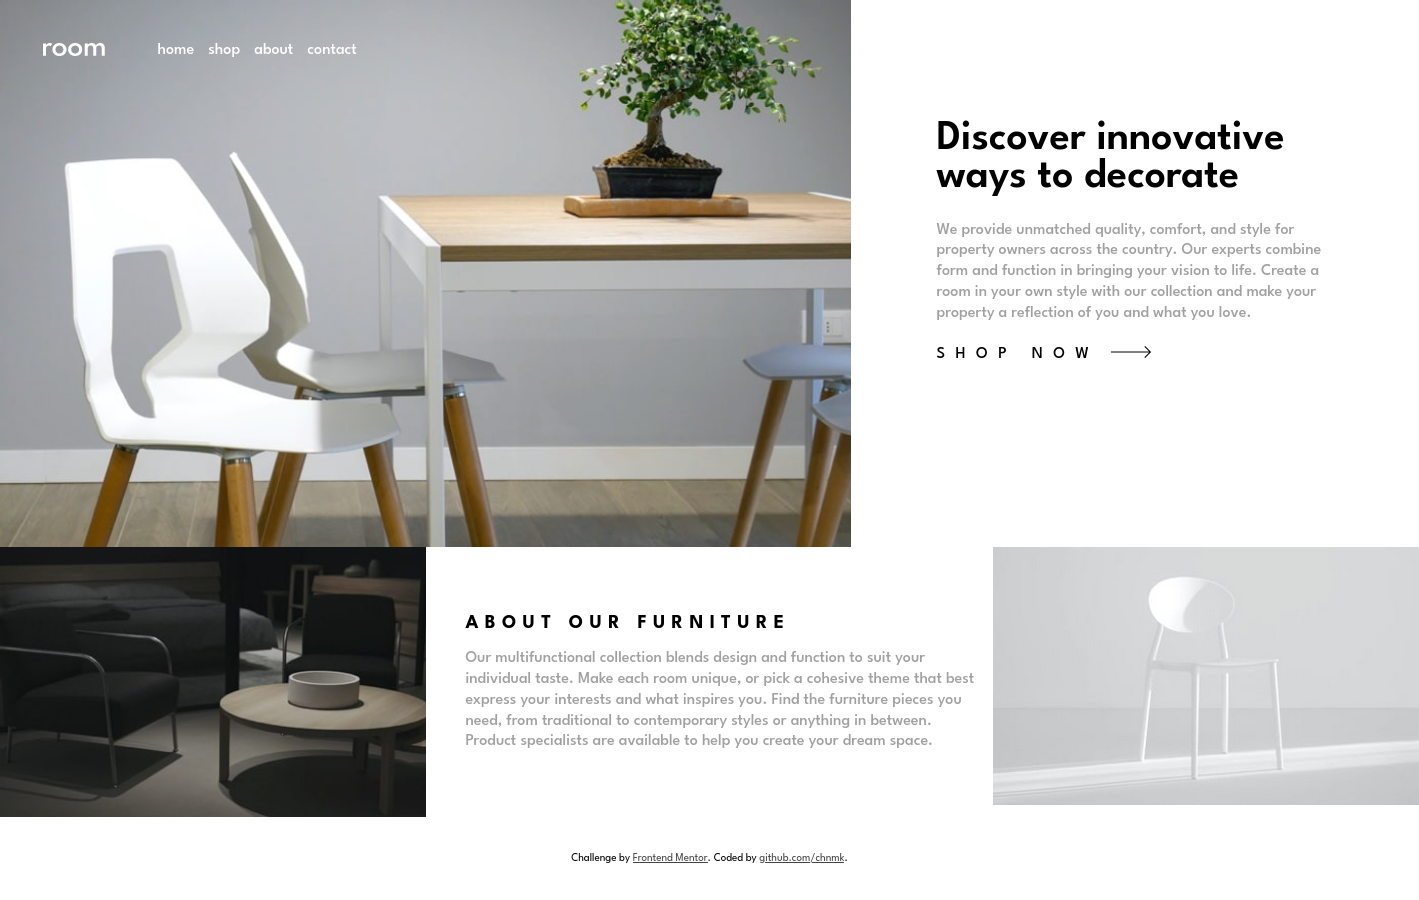
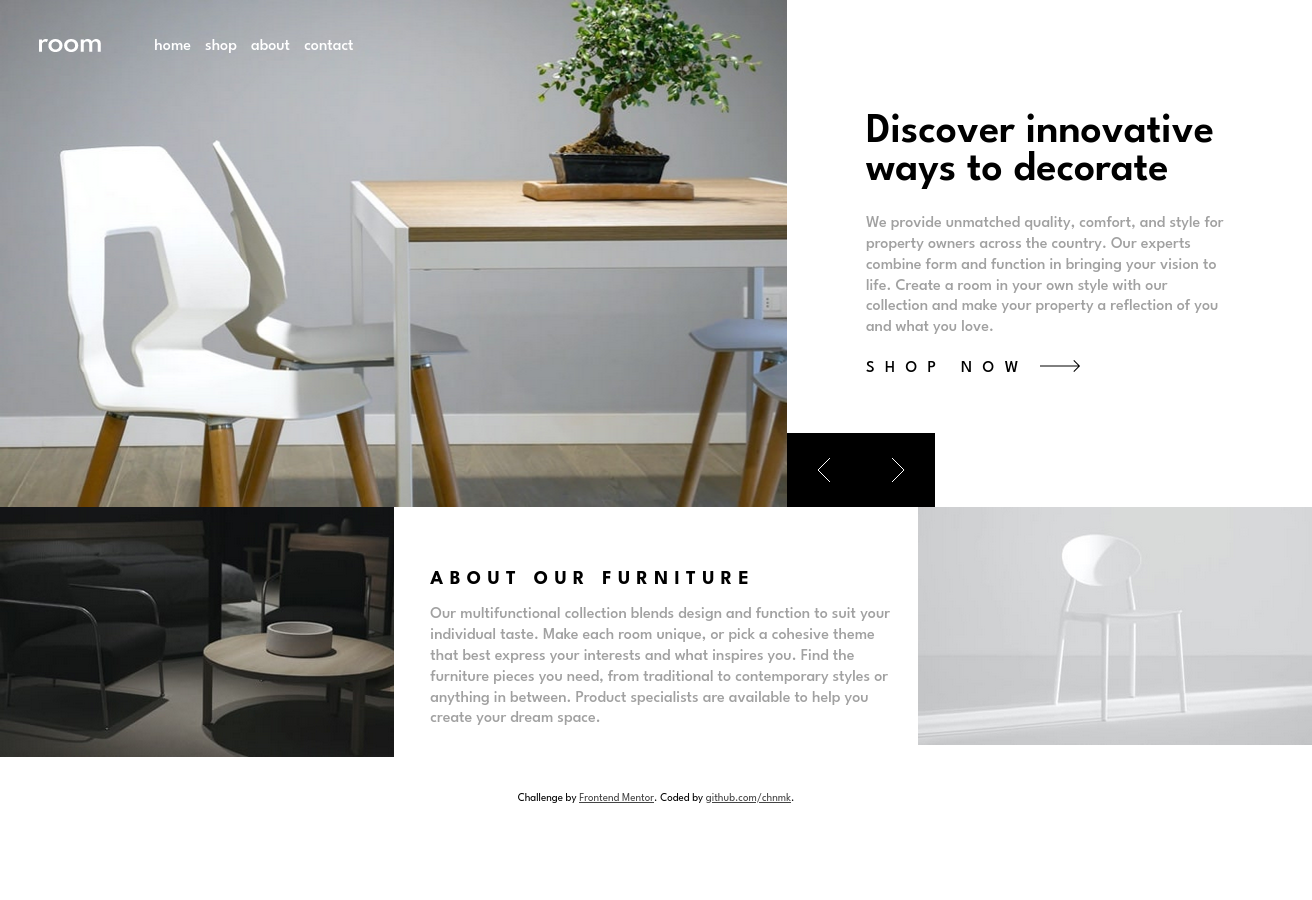
style: add basic mobile layout

diff --git a/src/components/app.scss b/src/components/app.scss
@@ -14,6 +14,10 @@ body {
     grid-template-rows: repeat(6, 1fr);
     grid-column-gap: 0px;
     grid-row-gap: 0px; 
+    @media screen and (width < 768px) {
+        display: flex;
+        flex-direction: column;
+    }
 }
 
 $dark-gray: hsl(0, 0%, 63%);
@@ -28,10 +32,17 @@ $very-dark-gray: hsl(0, 0%, 27%);
     background-position: left center;
     background-repeat: no-repeat;
     background-image: url("../assets/images/desktop-image-hero-1.jpg");
+    @media screen and (width < 768px) {
+        width: 100%;
+        height: 360px;
+    }
 }
 
 .nav-menu {
     padding: 5% 0 0 5%;
+    @media screen and (width < 768px) {
+        text-align: center;
+    } 
 }
 
 %default-link {
@@ -57,6 +68,10 @@ $very-dark-gray: hsl(0, 0%, 27%);
     position: relative;
     top: -34px;
     left: 25px + 50px;
+
+    @media screen and (width < 768px) {
+        display: none;
+    } 
 
     &__link-list{
         list-style-type: none;
@@ -153,9 +168,19 @@ $very-dark-gray: hsl(0, 0%, 27%);
 
 .image-about-1 {
     grid-area: 5 / 1 / 7 / 4;
+    /*
     &__img {
+        width: auto;
+        height: 100%;
+    }
+    */
+    background-size: cover;
+    background-position: left center;
+    background-repeat: no-repeat;
+    background-image: url("../assets/images/image-about-dark.jpg");
+    @media screen and (width < 768px) {
         width: 100%;
-        height: auto;
+        height: 266px;
     }
 }
 
@@ -184,9 +209,19 @@ $very-dark-gray: hsl(0, 0%, 27%);
 
 .image-about-2 {
     grid-area: 5 / 8 / 7 / 11;
+    /*
     &__img {
-        width: 100%;
+        width: auto;
         height: auto;
+    }
+    */
+    background-size: cover;
+    background-position: left center;
+    background-repeat: no-repeat;
+    background-image: url("../assets/images/image-about-light.jpg");
+    @media screen and (width < 768px) {
+        width: 100%;
+        height: 266px;
     }
 }
 

diff --git a/public/index.html b/public/index.html
@@ -64,10 +64,12 @@
       </div>
     </section>
     <section class="image-about-1">
+      <!--
       <img 
       class="image-about-1__img"
       src="/src/assets/images/image-about-dark.jpg" 
       alt="furniture"/>
+      -->
     </section>
     <section class="about-desc">
       <h2 class="about-desc__message">
@@ -81,17 +83,17 @@
       </p>
     </section>
     <section class="image-about-2">
+      <!--
       <img 
       class="image-about-2__img"
       src="/src/assets/images/image-about-light.jpg" 
       alt="furniture"/>
+      -->
     </section>
   </main>
-  <!--
   <footer class="attribution">
     Challenge by <a class="attribution__link" href="https://www.frontendmentor.io?ref=challenge" target="_blank">Frontend Mentor</a>. 
     Coded by <a class="attribution__link" href="github.com/chnmk/newsletter-sign-up-form">github.com/chnmk</a>.
   </footer>
-  -->
 </body>
 </html>

diff --git a/README.md b/README.md
@@ -10,7 +10,7 @@ Users should be able to:
 - See hover states for all interactive elements on the page
 - Navigate the slider using either their mouse/trackpad or keyboard
 
-### Screenshot
+### Screenshot (13-12-2023)
 
 ![](./preview/screenshot.png)
 
